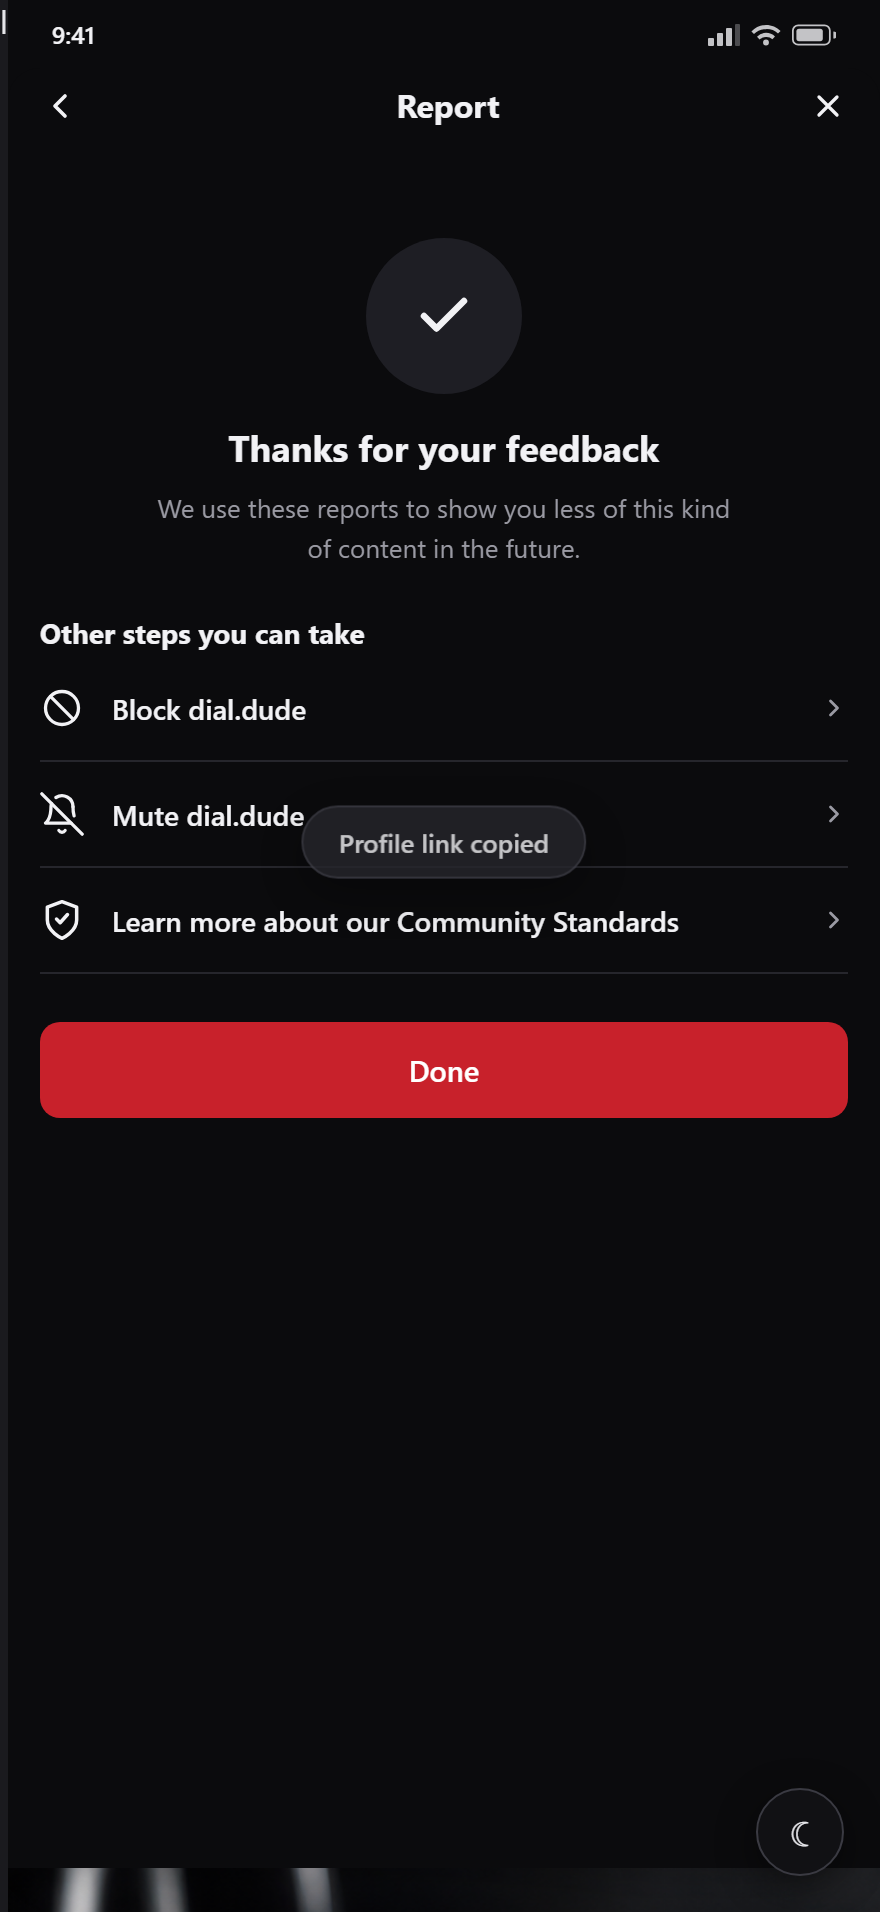
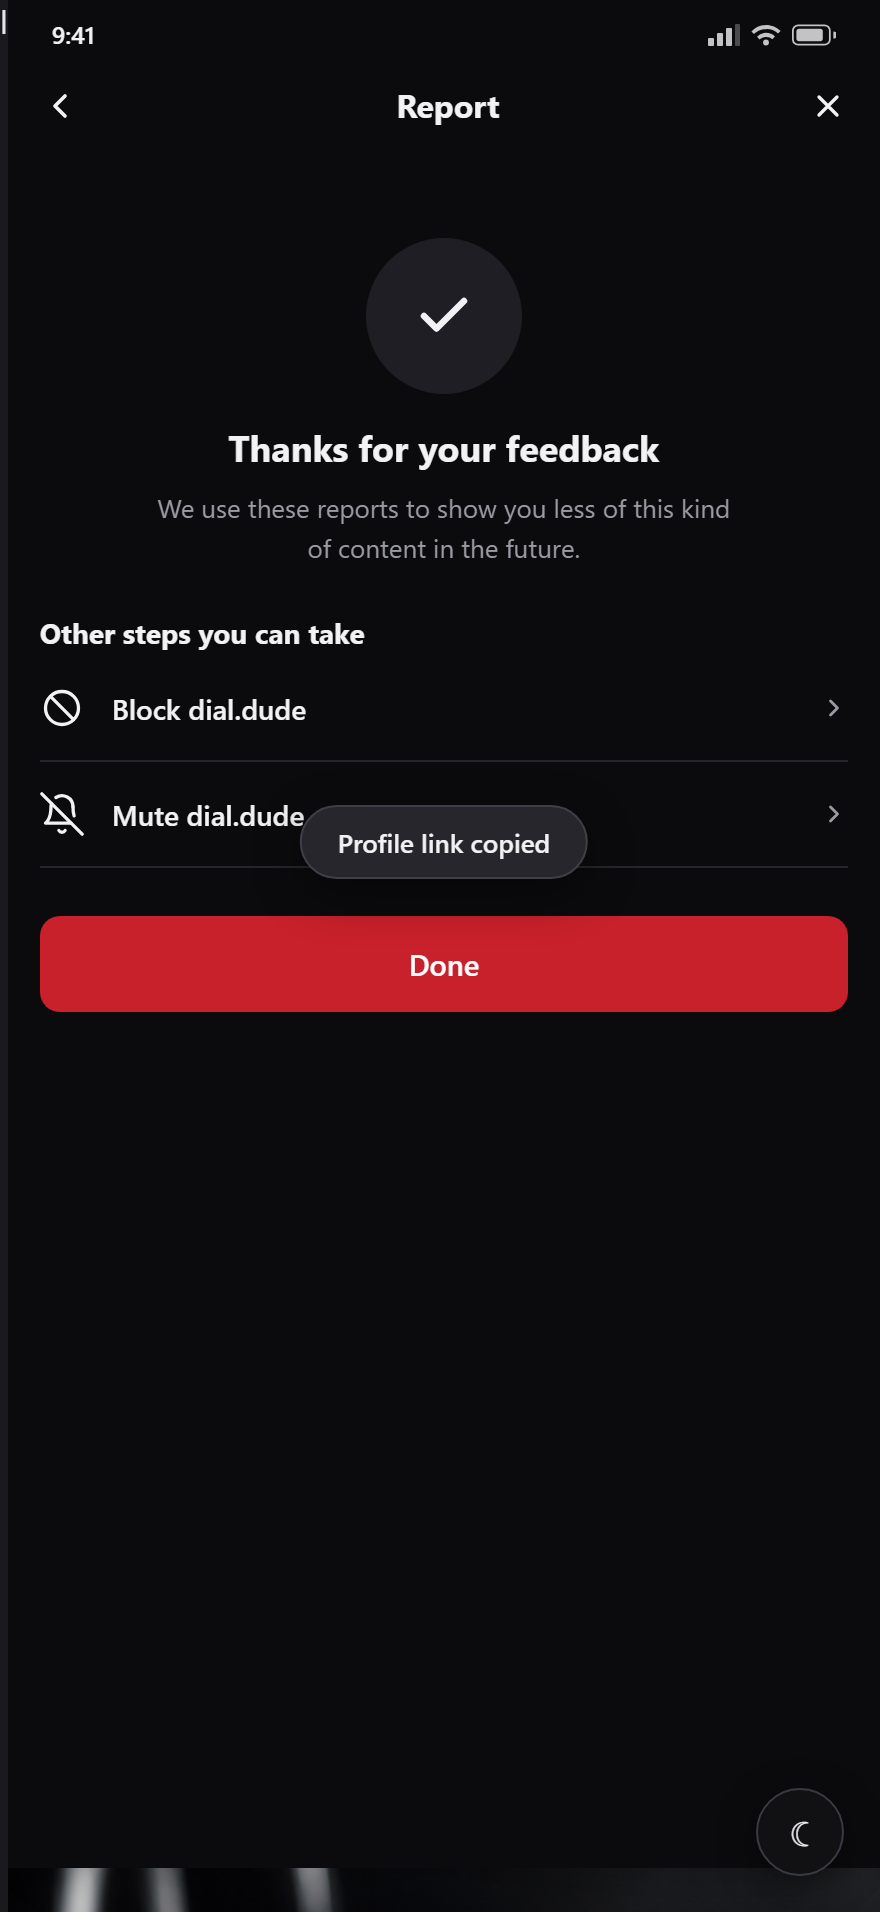
feat(PROFILE-005): report Other steps match IG — mute dialog, report block sheet, done checks
- "Other steps" trimmed to actions TukDaeng has (Block/Unfollow/Mute);
  Community Standards row removed
- Block from the thanks page uses the IG report-flow sheet variant:
  3 impact rows (incl. "unblock anytime in Settings") + Block only
- Mute reuses the center dialog, now offering Mute posts / Mute posts
  and story like IG
- Completed steps keep their row with a green check (tracked per user);
  Unfollow toasts "Unfollowed"

Generated with [Devin](https://devin.ai)

Changed region(s): [[0.0307, 0.432, 0.9818, 0.5863]]

diff --git a/Prototypes/fo-flow/index.html b/Prototypes/fo-flow/index.html
@@ -1911,6 +1911,8 @@ l<!DOCTYPE html>
   }
   .rp-step .rp-step-t { flex: 1; }
   .rp-step .pm-chev { color: var(--muted); display: flex; flex-shrink: 0; }
+  .rp-step .rp-ck { color: #3ddc84; display: flex; flex-shrink: 0; } /* IG: green check on completed steps */
+  .rp-step[disabled] { cursor: default; }
   .rp-done {
     width: 100%; border: none; border-radius: 10px; padding: 14px; margin-top: 24px;
     background: var(--red); color: #fff; font-family: var(--font-main);
@@ -3660,6 +3662,7 @@ const I = {
   circleX: (s=20) => `<svg width="${s}" height="${s}" viewBox="0 0 24 24" fill="none" stroke="currentColor" stroke-width="1.8" stroke-linecap="round"><circle cx="12" cy="12" r="9"/><path d="m9.5 9.5 5 5m0-5-5 5"/></svg>`,
   flag: (s=20) => `<svg width="${s}" height="${s}" viewBox="0 0 24 24" fill="none" stroke="currentColor" stroke-width="1.8" stroke-linecap="round" stroke-linejoin="round"><path d="M6 21V4"/><path d="M6 4.5h11.5l-2.5 4.5 2.5 4.5H6"/></svg>`,
   prohibit: (s=20) => `<svg width="${s}" height="${s}" viewBox="0 0 24 24" fill="none" stroke="currentColor" stroke-width="1.8" stroke-linecap="round"><circle cx="12" cy="12" r="9"/><path d="m5.7 5.7 12.6 12.6"/></svg>`,
+  gear: (s=20) => `<svg width="${s}" height="${s}" viewBox="0 0 24 24" fill="none" stroke="currentColor" stroke-width="1.8" stroke-linecap="round" stroke-linejoin="round"><circle cx="12" cy="12" r="3.2"/><path d="M19.4 15a1.7 1.7 0 0 0 .34 1.87l.06.06a2 2 0 1 1-2.83 2.83l-.06-.06a1.7 1.7 0 0 0-1.87-.34 1.7 1.7 0 0 0-1 1.55V21a2 2 0 1 1-4 0v-.09a1.7 1.7 0 0 0-1-1.55 1.7 1.7 0 0 0-1.87.34l-.06.06a2 2 0 1 1-2.83-2.83l.06-.06A1.7 1.7 0 0 0 4.6 15a1.7 1.7 0 0 0-1.55-1H3a2 2 0 1 1 0-4h.09A1.7 1.7 0 0 0 4.6 9a1.7 1.7 0 0 0-.34-1.87l-.06-.06a2 2 0 1 1 2.83-2.83l.06.06A1.7 1.7 0 0 0 9 4.6a1.7 1.7 0 0 0 1-1.55V3a2 2 0 1 1 4 0v.09a1.7 1.7 0 0 0 1 1.55 1.7 1.7 0 0 0 1.87-.34l.06-.06a2 2 0 1 1 2.83 2.83l-.06.06A1.7 1.7 0 0 0 19.4 9c.24.6.84 1 1.51 1H21a2 2 0 1 1 0 4h-.09c-.67 0-1.27.4-1.51 1z"/></svg>`,
   pen: (s=18) => `<svg width="${s}" height="${s}" viewBox="0 0 24 24" fill="none" stroke="currentColor" stroke-width="1.8" stroke-linecap="round" stroke-linejoin="round"><path d="M17 3a2.85 2.83 0 1 1 4 4L7.5 20.5 2 22l1.5-5.5Z"/></svg>`,
   trash: (s=18) => `<svg width="${s}" height="${s}" viewBox="0 0 24 24" fill="none" stroke="currentColor" stroke-width="1.8" stroke-linecap="round" stroke-linejoin="round"><path d="M3 6h18"/><path d="M8 6V4a2 2 0 0 1 2-2h4a2 2 0 0 1 2 2v2"/><path d="M19 6v14a2 2 0 0 1-2 2H7a2 2 0 0 1-2-2V6"/></svg>`,
   sad: (s=20) => `<svg width="${s}" height="${s}" viewBox="0 0 24 24" fill="none" stroke="currentColor" stroke-width="1.8" stroke-linecap="round" stroke-linejoin="round"><circle cx="12" cy="12" r="9"/><path d="M8.3 15.6c.9-1.1 2.2-1.7 3.7-1.7s2.8.6 3.7 1.7"/><path d="M9 9.6h.01M15 9.6h.01"/></svg>`,
@@ -4941,8 +4944,9 @@ function openDlg(scr, inner) {
 function muteDlgHTML(seller) {
   return `
     <div class="dlg-q">Mute ${seller}?</div>
-    <div class="dlg-desc">You can unmute them anytime from Settings. We won't let them know you muted them.</div>
+    <div class="dlg-desc">You can unmute them anytime from their profile. We won't let them know you muted them.</div>
     <button class="dlg-btn danger dlg-mute-go">Mute posts</button>
+    <button class="dlg-btn danger dlg-mute-go">Mute posts and story</button>
     <button class="dlg-btn dlg-cancel">Cancel</button>`;
 }
 function resetDlgHTML() {
@@ -6480,17 +6484,21 @@ function pfSetBlocked(scr, name, on) {
 }
 const PF_VBADGE = `<svg class="ab-vb" width="16" height="16" viewBox="0 0 24 24"><path fill="#0095f6" d="M12 2l2.53 2.2 3.35-.29.75 3.27 2.88 1.73-1.31 3.09L21.51 15.1l-2.88 1.72-.75 3.27-3.35-.28L12 22l-2.53-2.19-3.35.28-.75-3.27-2.88-1.72 1.31-3.1L2.49 8.92l2.88-1.73.75-3.27 3.35.3z"/><path fill="none" stroke="#fff" stroke-width="2.1" stroke-linecap="round" stroke-linejoin="round" d="m8.4 12.4 2.4 2.4 4.8-5.1"/></svg>`;
 /* IG block confirm — bottom sheet: centered avatar + impact rows + two actions */
-function blkSheetHTML(uname) {
+function blkSheetHTML(uname, fromReport) {
   const u = profileOf(uname);
+  /* IG swaps the sheet inside the report flow: the "unblock anytime" note
+     becomes a Settings row, and "Block and report" is gone (you're already
+     in the report flow) — 3 impact rows + a single Block button */
   return `<div class="sheet-handle"></div>
     <div class="blk-body">
       <img class="blk-av" src="${u.avatar}" alt="">
       <div class="blk-q">Block ${esc(uname)}?</div>
-      <div class="blk-d">This will also block any other profiles they may have or create in the future. You can unblock them anytime.</div>
-      <div class="blk-i">${I.commentOff(22)}<span>They won't be able to message you or find your profile or content on TukDaeng.</span></div>
-      <div class="blk-i">${I.bellOff(22)}<span>They won't be notified that you blocked or reported them.</span></div>
+      <div class="blk-d">This will also block any other profiles they may have or create in the future.${fromReport ? "" : " You can unblock them anytime."}</div>
+      <div class="blk-i">${fromReport ? I.prohibit(22) : I.commentOff(22)}<span>They won't be able to message you or find your profile or content on TukDaeng.</span></div>
+      <div class="blk-i">${I.bellOff(22)}<span>They won't be notified that you blocked${fromReport ? "" : " or reported"} them.</span></div>
+      ${fromReport ? `<div class="blk-i">${I.gear(22)}<span>You can unblock them anytime in Settings.</span></div>` : ""}
       <button class="blk-go" data-u="${esc(uname)}">Block</button>
-      <button class="blk-rp" data-u="${esc(uname)}">Block and report</button>
+      ${fromReport ? "" : `<button class="blk-rp" data-u="${esc(uname)}">Block and report</button>`}
     </div>`;
 }
 /* IG unblock confirm — center dialog like Mute (not a sheet) */
@@ -6960,7 +6968,9 @@ function subHTML(name, scr) {
      no Restrict, no message reporting. */
   if (name.startsWith("report:done:")) {
     const u = name.slice(12);
-    const step = (act, ic, label) => `<button class="rp-step" data-act="${act}" data-u="${esc(u)}"><span class="rp-step-ic">${ic}</span><span class="rp-step-t">${esc(label)}</span><span class="pm-chev">${I.chevR(14)}</span></button>`;
+    const dn = scr._rpDone || (scr._rpDone = new Set());
+    /* IG keeps a completed step in place with a green check instead of a chevron */
+    const step = (act, ic, label, done) => `<button class="rp-step" data-act="${act}" data-u="${esc(u)}"${done ? " disabled" : ""}><span class="rp-step-ic">${ic}</span><span class="rp-step-t">${esc(label)}</span>${done ? `<span class="rp-ck">${I.check(15)}</span>` : `<span class="pm-chev">${I.chevR(14)}</span>`}</button>`;
     return `
     <div class="detail-head rp-head"><button class="icon-btn rp-back sub-back">${I.back(20)}</button><span class="detail-title">Report</span><button class="icon-btn rp-x sub-x">${I.x(18)}</button></div>
     <div class="pm-rp-scroll">
@@ -6971,9 +6981,8 @@ function subHTML(name, scr) {
       </div>
       <div class="rp-steps-h">Other steps you can take</div>
       ${pfIsBlocked(u) ? step("unblock", I.prohibit(22), `Unblock ${u}`) : step("block", I.prohibit(22), `Block ${u}`)}
-      ${pfIsFollowed(u) ? step("unfollow", I.userMinus(22), `Unfollow ${u}`) : ""}
-      ${pfIsMuted(u) ? step("unmute", I.bellOff(22), `Unmute ${u}`) : step("mute", I.bellOff(22), `Mute ${u}`)}
-      ${step("learn", I.shield(22), "Learn more about our Community Standards")}
+      ${dn.has(u + "|unfollow") ? step("unfollow", I.userMinus(22), `Unfollow ${u}`, true) : pfIsFollowed(u) ? step("unfollow", I.userMinus(22), `Unfollow ${u}`) : ""}
+      ${dn.has(u + "|mute") ? step("mute", I.bellOff(22), `Mute ${u}`, true) : pfIsMuted(u) ? step("unmute", I.bellOff(22), `Unmute ${u}`) : step("mute", I.bellOff(22), `Mute ${u}`)}
       <button class="rp-done">Done</button>
     </div>`;
   }
@@ -7821,7 +7830,11 @@ document.getElementById("stage").addEventListener("click", e => {
     const scr = dlgMute.closest(".screen");
     scr.classList.remove("dialog-open");
     pfSetMuted(scr, scr.dataset.muteSeller, true); /* pfSetMuted covers profiles without real posts too */
-    scrToast(scr, "Posts muted");
+    scrToast(scr, "Muted");
+    if (((scr._subStack || []).at(-1) || "").startsWith("report:done:")) {
+      (scr._rpDone ||= new Set()).add(scr.dataset.muteSeller + "|mute"); /* IG: step gets a green check */
+      renderSub(scr);
+    }
     return;
   }
   const dlgUblk = e.target.closest(".dlg-unblock-go");
@@ -8381,13 +8394,14 @@ document.getElementById("stage").addEventListener("click", e => {
      apply instantly then re-render the page so the rows refresh. */
   const rpStep = e.target.closest(".rp-step");
   if (rpStep) {
+    if (rpStep.disabled) return; /* completed step — just shows its green check */
     const scr = rpStep.closest(".screen"), u = rpStep.dataset.u, act = rpStep.dataset.act;
-    if (act === "block") openSheet(scr, "pm", "pm-open", blkSheetHTML(u));
+    const dn = scr._rpDone || (scr._rpDone = new Set());
+    if (act === "block") openSheet(scr, "pm", "pm-open", blkSheetHTML(u, true)); /* IG report-flow sheet: 3 rows, Block only */
     else if (act === "unblock") { scr.dataset.unblockU = u; openDlg(scr, unblockDlgHTML(u)); }
-    else if (act === "unfollow") { pfSetFollow(scr, u, false); scrToast(scr, `Unfollowed ${u}`); renderSub(scr); }
-    else if (act === "mute") { pfSetMuted(scr, u, true); scrToast(scr, `Muted ${u}`); renderSub(scr); }
-    else if (act === "unmute") { pfSetMuted(scr, u, false); scrToast(scr, `Unmuted ${u}`); renderSub(scr); }
-    else if (act === "learn") scrToast(scr, "Community Standards aren't in this prototype yet");
+    else if (act === "unfollow") { pfSetFollow(scr, u, false); dn.add(u + "|unfollow"); scrToast(scr, "Unfollowed"); renderSub(scr); }
+    else if (act === "mute") { scr.dataset.muteSeller = u; openDlg(scr, muteDlgHTML(u)); } /* IG: pick Mute posts / posts and story */
+    else if (act === "unmute") { pfSetMuted(scr, u, false); dn.delete(u + "|mute"); scrToast(scr, "Unmuted"); renderSub(scr); }
     return;
   }
   const rpDone = e.target.closest(".rp-done");
